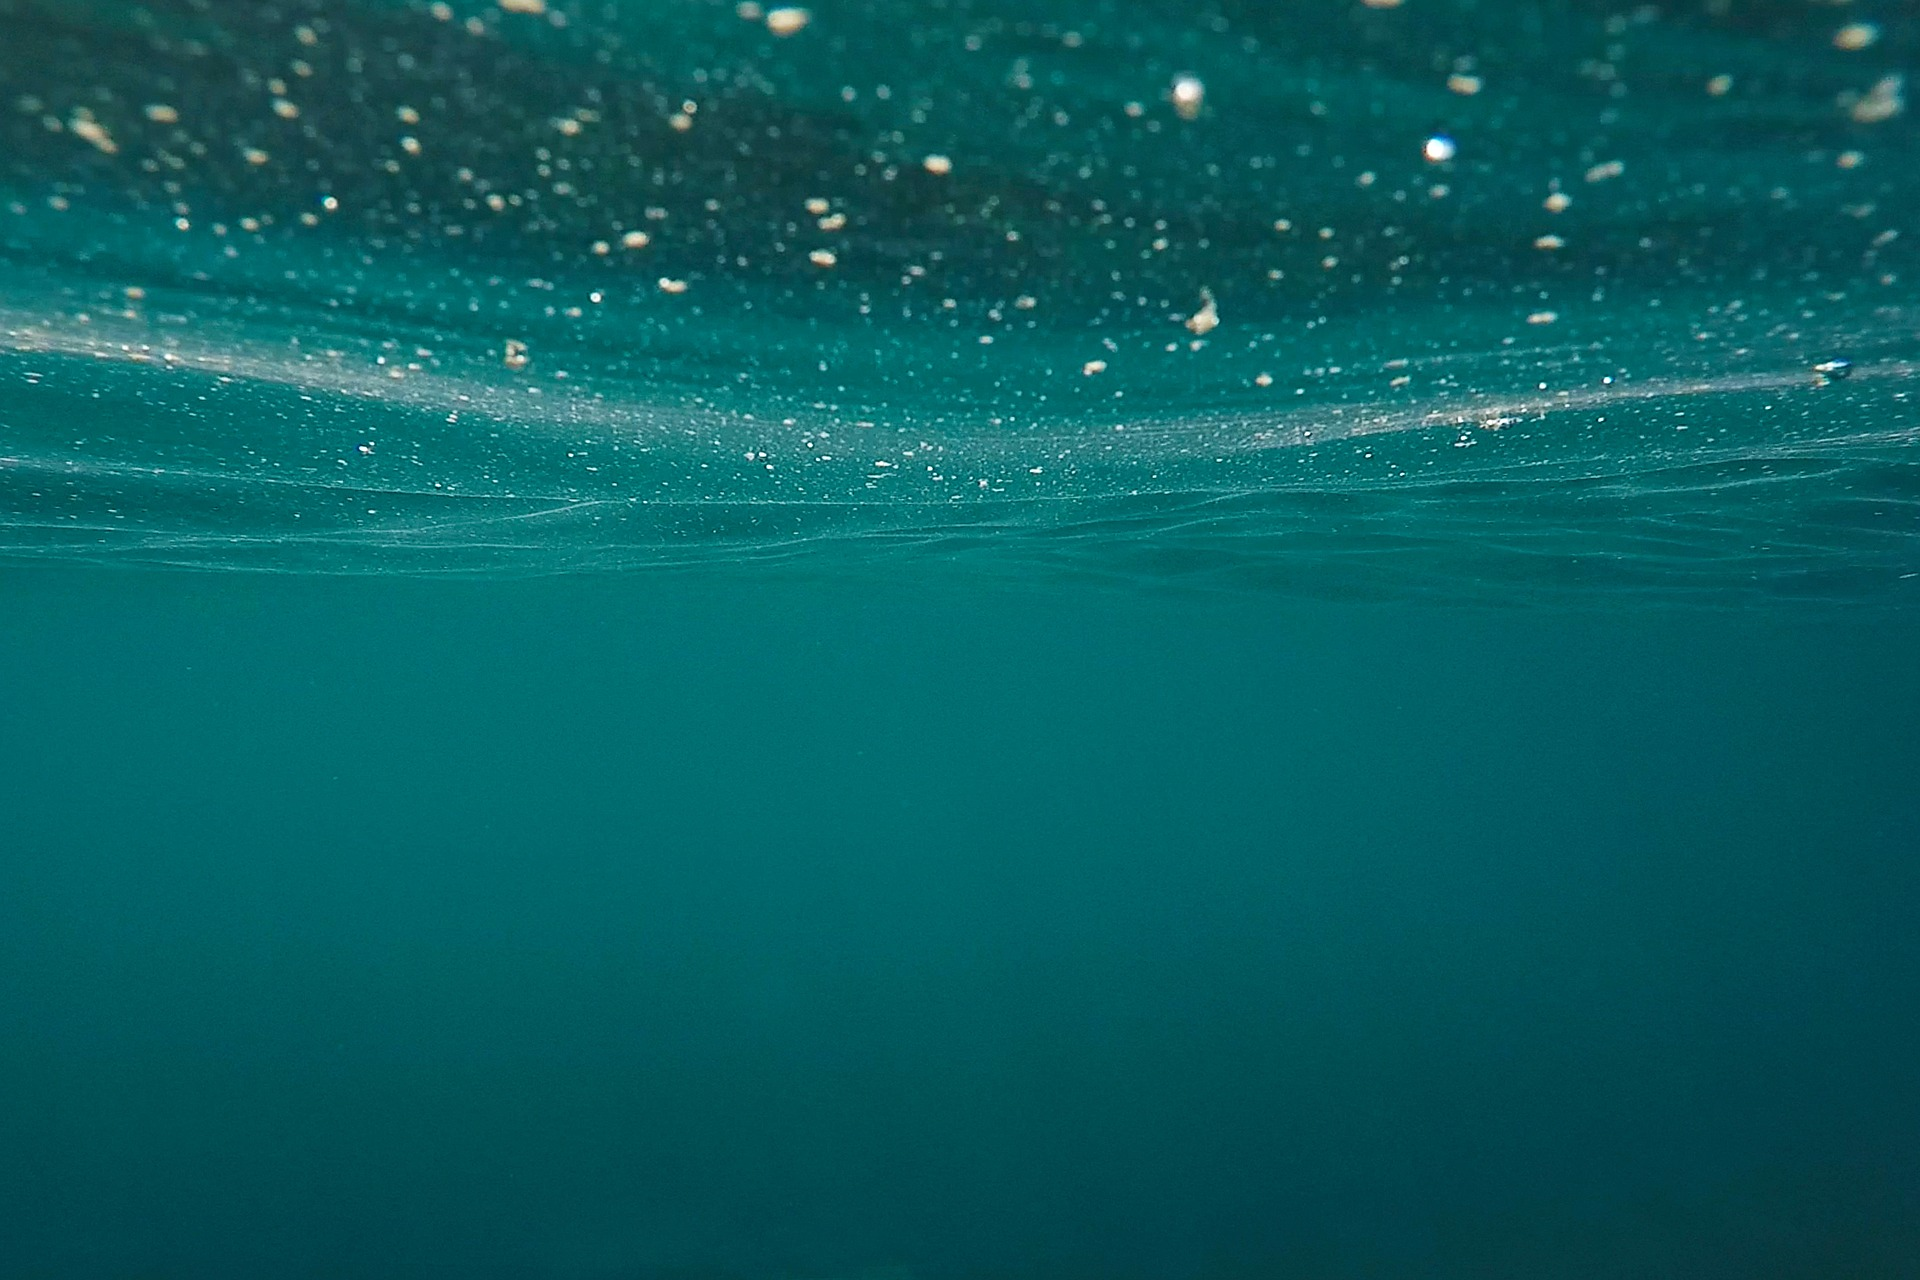
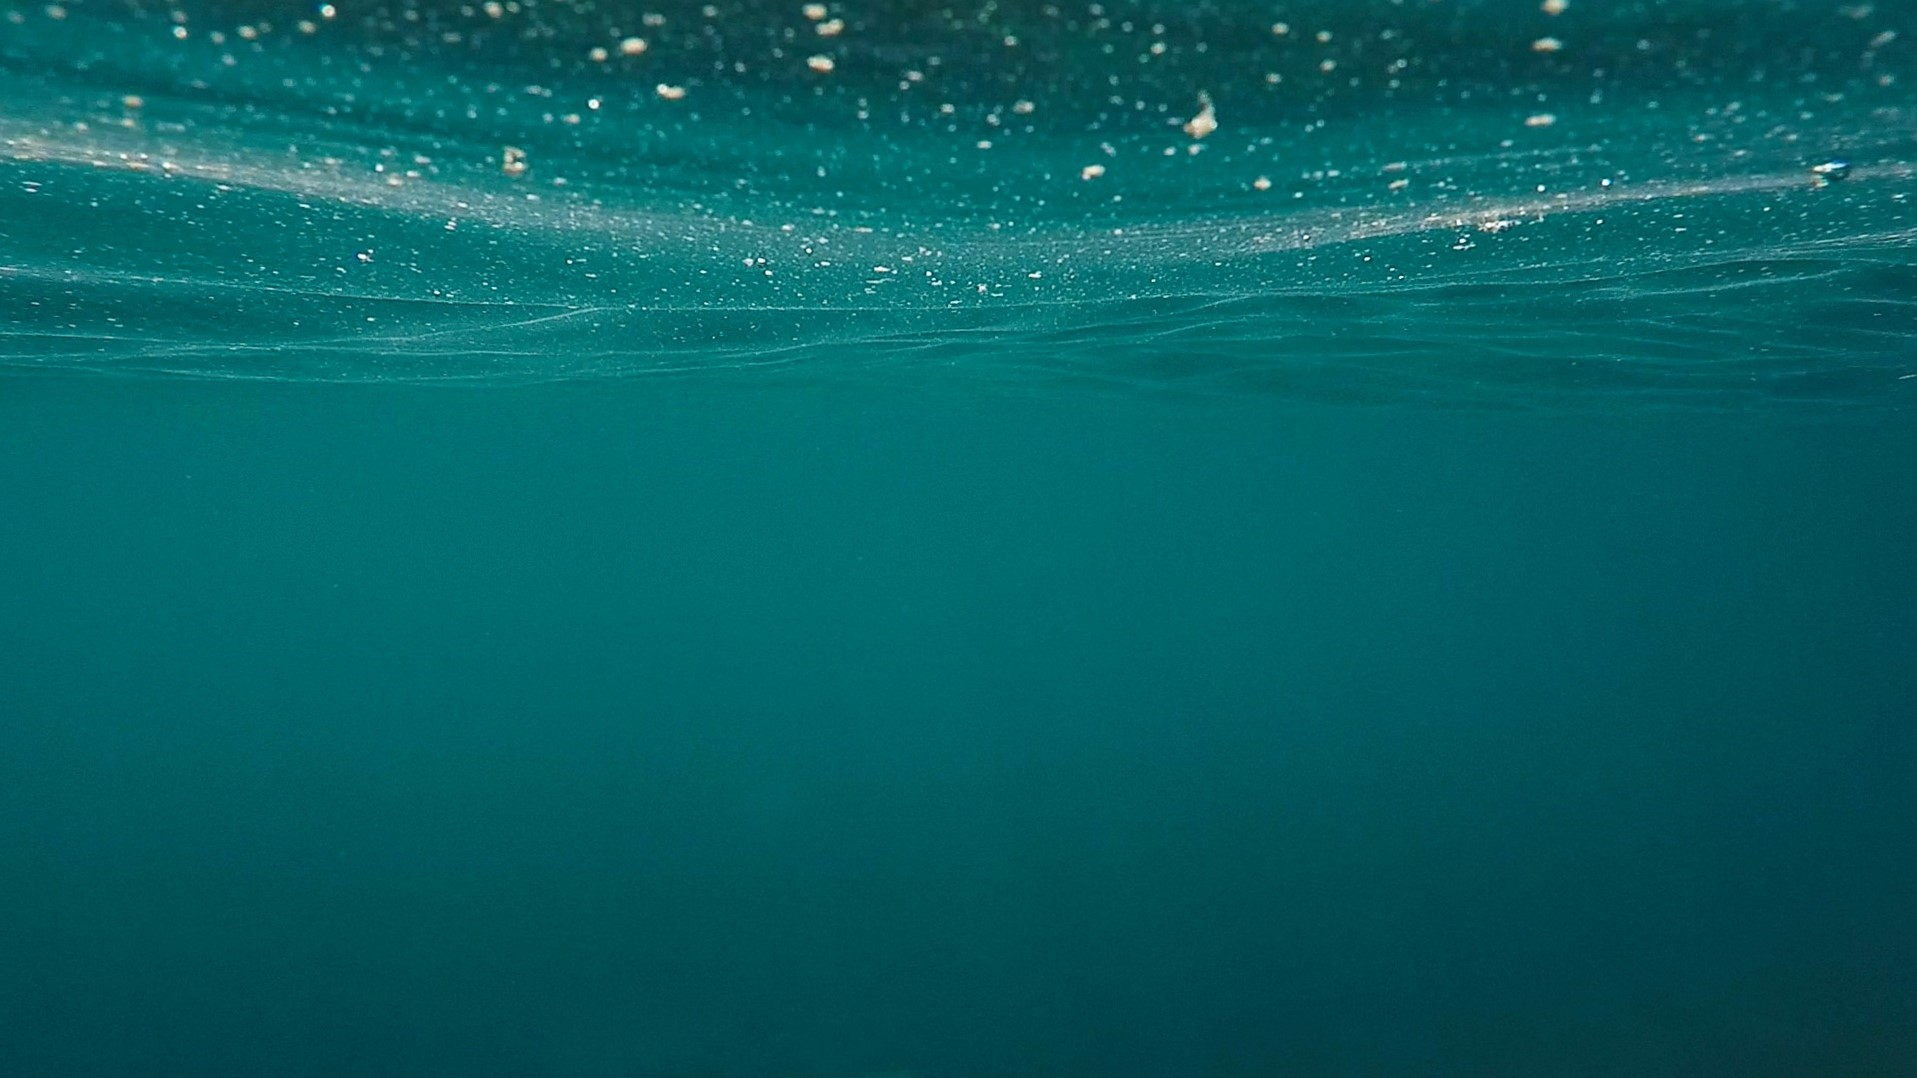
basic portfolio design

Changed region(s): [[0.0, 0.0, 1.0, 0.4286], [0.7079, 0.0, 0.7387, 0.0306]]

diff --git a/index.html b/index.html
@@ -1,0 +1,104 @@
+<!DOCTYPE html>
+<html lang="en-us">
+
+    <head>
+        <meta charset="utf-8" />
+        <meta http-equiv="X-UA-Compatible" content="IE=edge">
+        <meta name="viewport" content="width=device-width, initial-scale=1.0"/>
+        <title>Kara Nichols</title>
+
+        <!--Import Google Icon Font-->
+        <link href="https://fonts.googleapis.com/icon?family=Material+Icons" rel="stylesheet">
+        <!--Import Google Font-->
+        <link href="https://fonts.googleapis.com/css?family=Rubik:400,400i,700,700i" rel="stylesheet">
+        <!--Import Bootstrap-->
+        <link rel="stylesheet" href="https://stackpath.bootstrapcdn.com/bootstrap/4.2.1/css/bootstrap.min.css" integrity="sha384-GJzZqFGwb1QTTN6wy59ffF1BuGJpLSa9DkKMp0DgiMDm4iYMj70gZWKYbI706tWS" crossorigin="anonymous">
+
+        <link rel="stylesheet" type="text/css" media="screen" href="assets/css/reset.css"/>
+        <link rel="stylesheet" type="text/css" media="screen" href="assets/css/style.css"/>
+        
+    </head>
+    
+    <body>
+
+        <header class="banner">
+            <img src="assets/images/water-768745_1920 (2).jpg" alt="Calm water" class="water-image">
+            <h1 class="title display-2">Kara Nichols</h1>
+        </header>
+
+        <div class="container mt-4">
+            <div class="row">
+                <div class="col-md-4 col-lg-3">
+                    <div class="row">
+                        <div class="col col-md-12">
+                            <img src="assets/images/Kara Nichols Photo 2017.jpg" alt="Headshot" class="headshot img-fluid">
+                        </div>
+                        <div class="col col-md-12">
+                            <i class= "material-icons">email</i><p>lnicholskara@gmail.com</p><br>
+                            <i class= "material-icons">phone</i><p>619-806-5578</p><br>
+                            <i class= "material-icons">assignment_ind</i><p>LinkedIn</p><br>
+                            <i class= "material-icons">place</i><p>San Diego, CA</p><br>                            
+                        </div>
+                    </div>
+                </div>
+
+                <div class="col-md-8 col-lg-9">
+
+                    <h4>About Me</h4>
+                    <p class="indent">Kara is a motivated, patient and talented team player who embraces change and innovation. She spent two busy years as an Office Manager at the online start-up Sunsational Swim School, successfully leading customer service, instructor support and sales teams. This included rewriting all client support messaging, implementing new ticket management software (Zendesk) and coaching more than 40 staff members on new technology. </p>
+
+                </div>
+            </div>
+        </div>
+
+        <div class="banner mt-4">
+                <img src="assets/images/rocks-1061540_1920.jpg" alt="Rocky Water" class="water-image">
+        </div>
+
+        <div class="container mt-4">
+            <div class="row">
+                <div class="col-12">
+                    <h4 class="display-3">Portfolio</h4>
+                </div>
+            </div>
+            <div class="row mt-2">
+                <div class="col-md-6 col-lg-4 mt-3">
+                    <a href="https://lnicholskara.github.io/Word-Guess-Game/" target="_blank" class="portfolio-links">
+                    <figure class="Image1">
+                        <img src="assets/images/Underwater.jpg" alt="Old Building" class="portpicture img-fluid">
+                            <figcaption><p class="descriptions">Harry Potter Hangman</p></figcaption>
+                    </figure></a>
+                </div>
+
+                <div class="col-md-6 col-lg-4 mt-3">
+                        <a href="https://lnicholskara.github.io/Word-Guess-Game/" target="_blank" class="portfolio-links">
+                            <figure class="Image1">
+                                <img src="assets/images/Underwater.jpg" alt="Old Building" class="portpicture img-fluid">
+                                    <figcaption><p class="descriptions">Harry Potter Hangman</p></figcaption>
+                            </figure></a>
+                </div>
+
+                <div class="col-md-6 col-lg-4 mt-3">
+                        <a href="https://lnicholskara.github.io/Word-Guess-Game/" target="_blank" class="portfolio-links">
+                            <figure class="Image1">
+                                <img src="assets/images/Underwater.jpg" alt="Old Building" class="portpicture img-fluid">
+                                    <figcaption><p class="descriptions">Harry Potter Hangman</p></figcaption>
+                            </figure></a>
+                </div>
+
+                <div class="col-md-6 col-lg-4 mt-3">
+                        <a href="https://lnicholskara.github.io/Word-Guess-Game/" target="_blank" class="portfolio-links">
+                            <figure class="Image1">
+                                <img src="assets/images/Underwater.jpg" alt="Old Building" class="portpicture img-fluid">
+                                    <figcaption><p class="descriptions">Harry Potter Hangman</p></figcaption>
+                            </figure></a>
+                </div>
+
+            </div>
+        </div>
+
+        <script src="/assets/javascript/logic.js"></script>
+
+    </body>
+
+</html>

diff --git a/assets/css/style.css b/assets/css/style.css
@@ -1,0 +1,80 @@
+body {
+    font-family: 'Rubik', sans-serif;
+    color: #161d27;
+    background-color: #f3f3f3;
+}
+
+.banner {  
+    width: 100%;
+    height: 275px;
+    overflow: hidden;
+}
+
+.water-image {
+    position: absolute;
+    width: 100%; 
+    height: 275px;
+    overflow: hidden;
+}
+
+.title {
+    color: white;
+    top: 50%;
+    transform: translateY(-50%);
+    position: relative;
+    text-align: center
+}
+
+.display-3 {
+    text-align: center;
+}
+
+.material-icons {
+    position: inline;
+}
+
+@media only screen and (min-width: 600px) {
+    .banner {
+        height: 300px;   
+    }
+
+    .water-image {
+        height: 300px;
+        overflow: hidden;
+    }
+
+
+} 
+
+@media only screen and (min-width: 768px) {
+    .banner {
+        height: 250px;   
+    }
+
+    .water-image {
+        height: 250px;
+        overflow: hidden;
+    }
+
+
+}
+
+@media only screen and (min-width: 992px) {
+    .banner {
+        height: 250px;   
+    }
+
+    .water-image {
+        height: 250px;
+    }
+} 
+
+@media only screen and (min-width: 1200px) {
+    .banner {
+        height: 300px;   
+    }
+
+    .water-image {
+        height: 300px;
+    }
+}

diff --git a/assets/css/reset.css b/assets/css/reset.css
@@ -1,0 +1,48 @@
+/* http://meyerweb.com/eric/tools/css/reset/ 
+   v2.0 | 20110126
+   License: none (public domain)
+*/
+
+html, body, div, span, applet, object, iframe,
+h1, h2, h3, h4, h5, h6, p, blockquote, pre,
+a, abbr, acronym, address, big, cite, code,
+del, dfn, em, img, ins, kbd, q, s, samp,
+small, strike, strong, sub, sup, tt, var,
+b, u, i, center,
+dl, dt, dd, ol, ul, li,
+fieldset, form, label, legend,
+table, caption, tbody, tfoot, thead, tr, th, td,
+article, aside, canvas, details, embed, 
+figure, figcaption, footer, header, hgroup, 
+menu, nav, output, ruby, section, summary,
+time, mark, audio, video {
+	margin: 0;
+	padding: 0;
+	border: 0;
+	font-size: 100%;
+	font: inherit;
+	vertical-align: baseline;
+}
+/* HTML5 display-role reset for older browsers */
+article, aside, details, figcaption, figure, 
+footer, header, hgroup, menu, nav, section {
+	display: block;
+}
+body {
+	line-height: 1;
+}
+ol, ul {
+	list-style: none;
+}
+blockquote, q {
+	quotes: none;
+}
+blockquote:before, blockquote:after,
+q:before, q:after {
+	content: '';
+	content: none;
+}
+table {
+	border-collapse: collapse;
+	border-spacing: 0;
+}
